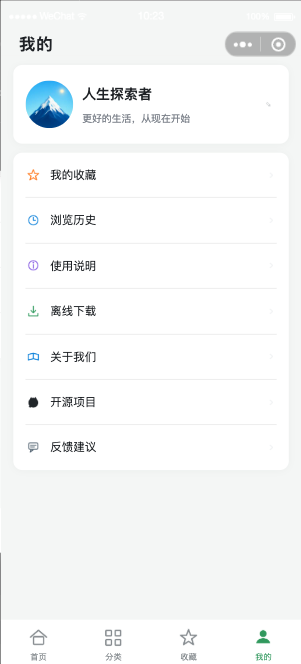
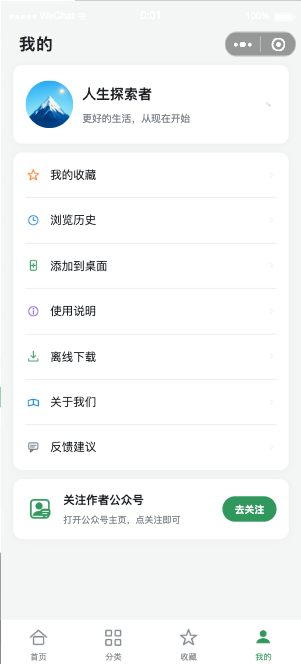
feat(mine): 新增关注作者公众号入口，菜单移除开源项目
菜单下方新增「关注作者公众号」区块：常驻 official-account 官方组件，
不满足展示场景时显示兜底卡片，点击用 wx.openOfficialAccountProfile 直接打开
公众号主页（需填公众号原始 ID），不支持时回退为复制名称引导搜索。
新图标 menu-account.png（gen_icons.py 新增 ic_official_account）。
菜单里的「开源项目」入口移除，功能迁移到「关于我们」页。

diff --git a/pages/mine/mine.js b/pages/mine/mine.js
@@ -13,6 +13,14 @@ const DESKTOP_GUIDE = {
   tagline: '之后从手机桌面一键打开，随时查阅'
 };
 
+// 作者公众号名称（复制搜索用）
+const OFFICIAL_ACCOUNT = 'HuiTurn';
+
+// 公众号原始 ID，形如 gh_xxxxxxxxxxxx（公众号后台「设置 → 账号详情」可查）。
+// 填上后点「去关注」会直接打开公众号主页；留空则回退为复制名称引导搜索。
+// 注意：跳转的公众号需与小程序为同主体或关联主体，否则会失败并回退。
+const OFFICIAL_ACCOUNT_ID = 'gh_5af98cf72f8e';
+
 Page({
   data: {
     userInfo: { ...DEFAULT_USER },
@@ -23,11 +31,15 @@ Page({
       { id: 'help', icon: 'info', label: '使用说明' },
       { id: 'download', icon: 'download', label: '离线下载' },
       { id: 'about', icon: 'book', label: '关于我们' },
-      { id: 'opensource', icon: 'github', label: '开源项目' },
       { id: 'feedback', icon: 'chat', label: '反馈建议' }
     ],
     favoriteCount: 0,
     historyCount: 0,
+    // 公众号关注：官方组件加载成功后隐藏兜底卡片
+    accountName: OFFICIAL_ACCOUNT,
+    // 能否直接打开公众号主页（需原始 ID + 基础库 3.7.10+）
+    canJump: !!OFFICIAL_ACCOUNT_ID && typeof wx.openOfficialAccountProfile === 'function',
+    oaReady: false,
     // 添加到桌面引导蒙层
     showGuide: false,
     guideStep2: '',
@@ -84,16 +96,6 @@ Page({
     const { item } = e.currentTarget.dataset;
     if (!item) return;
 
-    if (item.id === 'opensource') {
-      wx.setClipboardData({
-        data: 'https://github.com/HuiTurn/HowToLiveBetter',
-        success: () => {
-          wx.showToast({ title: '项目链接已复制', icon: 'none' });
-        }
-      });
-      return;
-    }
-
     if (item.id === 'favorites') {
       wx.switchTab({ url: '/pages/favorite/favorite' });
       return;
@@ -149,6 +151,41 @@ Page({
 
   onCloseGuide() {
     this.setData({ showGuide: false });
+  },
+
+  // official-account 组件加载成功：隐藏兜底卡片，用官方关注组件
+  onOaLoad() {
+    this.setData({ oaReady: true });
+  },
+
+  // 组件不可用（未关联公众号 / 未在后台开启 / 场景值不支持等），保留兜底卡片即可
+  onOaError(e) {
+    console.warn('公众号关注组件不可用', e && e.detail);
+  },
+
+  // 优先直接打开公众号主页，失败/不支持时回退为复制名称引导搜索
+  onFollowAuthor() {
+    if (!this.data.canJump) {
+      this.copyAccountName();
+      return;
+    }
+
+    wx.openOfficialAccountProfile({
+      username: OFFICIAL_ACCOUNT_ID,
+      fail: (err) => {
+        console.warn('打开公众号主页失败，回退复制名称', err);
+        this.copyAccountName();
+      }
+    });
+  },
+
+  copyAccountName() {
+    wx.setClipboardData({
+      data: OFFICIAL_ACCOUNT,
+      success: () => {
+        wx.showToast({ title: '公众号名已复制，去微信搜索关注', icon: 'none' });
+      }
+    });
   },
 
   onShareAppMessage() {

diff --git a/assets/icons/gen_icons.py b/assets/icons/gen_icons.py
@@ -399,6 +399,25 @@ def ic_arrow_curve(color):
     return im
 
 
+def ic_official_account(color):
+    """公众号：圆角卡片 + 人像 + 右下角对话气泡。"""
+    im = canvas()
+    d = ImageDraw.Draw(im)
+    rrect(d, (12, 12, 68, 68), 12, color)
+    # 人像：头 + 肩
+    circle_fill(d, 38, 32, 10, color)
+    im = rotate_paste(im, half_ellipse(None, (20, 46, 56, 74), color, mode='fill'))
+    d = ImageDraw.Draw(im)
+    # 右下角气泡
+    rrect_fill(d, (42, 40, 70, 60), 6, color)
+    poly(d, [(50, 60), (46, 70), (58, 60)], color, fill=color)
+    # 气泡内三条横线
+    line(d, [(48, 47), (64, 47)], WHITE, width=int(3 * SS))
+    line(d, [(48, 53), (60, 53)], WHITE, width=int(3 * SS))
+    # 气泡盖住人像右肩后补一下卡片右下角描边
+    return im
+
+
 ICONS = [
     ('heart.png', lambda c: ic_heart(c), GRAY),
     ('heart-red.png', lambda c: ic_heart(c, filled=True), RED),
@@ -421,6 +440,7 @@ ICONS = [
     ('moments-green.png', lambda c: ic_moments(c), GREEN),
     ('arrow-curve-white.png', lambda c: ic_arrow_curve(c), WHITE),
     ('menu-chat.png', lambda c: ic_chat(c), SLATE),
+    ('menu-account.png', lambda c: ic_official_account(c), GREEN),
     ('home.png', lambda c: ic_home(c), GRAY),
     ('home-active.png', lambda c: ic_home(c, filled=True), GREEN),
     ('category.png', lambda c: ic_grid(c), GRAY),
